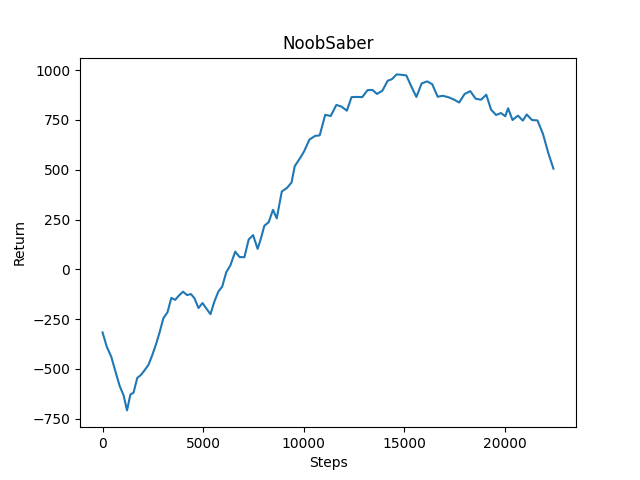
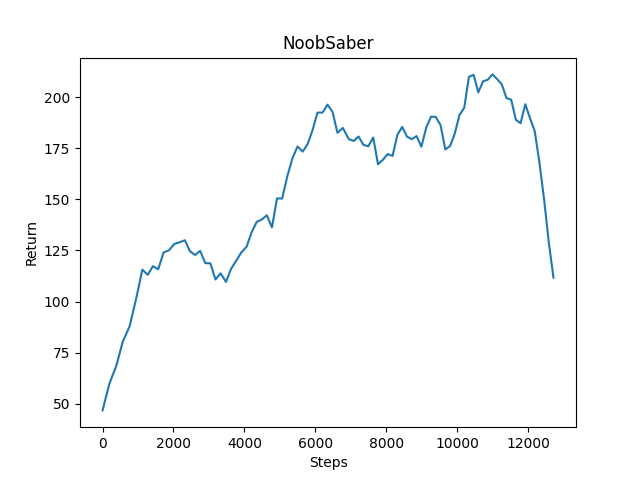
seperate switch and attack

diff --git a/cs175_rllib.py b/cs175_rllib.py
@@ -33,17 +33,17 @@ class NoobSaberAction(enum.Enum):
     NOP = 0
     ATTACK_LEFT = 1
     ATTACK_RIGHT = 2
-    #SWITCH = 3
+    SWITCH = 3
 
     def short_name(self):
         if self == NoobSaberAction.NOP:
             return 'NOP'
         elif self == NoobSaberAction.ATTACK_LEFT:
             return 'ATK_L'
-        #elif self == NoobSaberAction.SWITCH:
-        #    return 'SWITCH'
-        
-        return 'ATK_R'  # ATTACK_RIGHT
+        elif self == NoobSaberAction.SWITCH:
+           return 'SWITCH'
+        else:
+            return 'ATK_R'  # ATTACK_RIGHT
 
 
 class NoobSaber(gym.Env):
@@ -130,7 +130,7 @@ class NoobSaber(gym.Env):
         # if action_idx == 0: # change "do nothing" to "switch pickaxe"
         #     action_idx = 3
         action = self.action_list[action_idx]
-        # print("action: ", action.short_name())
+        print("action: ", action.short_name())
         self._make_action(action)
         self.episode_step += 1
         # print("====New Step====", self.episode_step)
@@ -228,8 +228,8 @@ class NoobSaber(gym.Env):
                     <!-- <RewardForTimeTaken initialReward="0" delta="0.1" density="PER_TICK" /> --> 
                     <RewardForCollectingItem>
                         <Item type="redstone_block" reward="1" />
-                        <Item reward="50" type="wool" colour="LIGHT_BLUE" />
-                        <Item reward="-60" type="wool" colour="YELLOW" />
+                        <Item reward="55" type="wool" colour="LIGHT_BLUE" />
+                        <Item reward="66" type="wool" colour="YELLOW" />
                     </RewardForCollectingItem>
                     <RewardForMissionEnd rewardForDeath="-100">
                         <Reward reward="1" description="Mission End"/>
@@ -284,6 +284,9 @@ class NoobSaber(gym.Env):
             world_state = self.agent_host.getWorldState()
             for error in world_state.errors:
                 print("\nError:", error.text)
+
+        self.agent_host.sendCommand('hotbar.1 1')
+        self.pickaxe = 0
 
         pyautogui.press('enter')
         pyautogui.rightClick()
@@ -364,15 +367,17 @@ class NoobSaber(gym.Env):
             self.agent_host.sendCommand('attack 1')
             time.sleep(delay)
             pyautogui.move(-225, 0)
-        # elif action == NoobSaberAction.SWITCH:
-        #     pyautogui.press('enter')
-        #     if self.pickaxe == 0:
-        #         self.agent_host.sendCommand('hotbar.2 1'); time.sleep(delay)
-        #         self.pickaxe += 1
-        #     else:
-        #         self.agent_host.sendCommand('hotbar.1 1'); time.sleep(delay)
-        #         self.pickaxe = 0
-        #     pyautogui.press('enter')
+        elif action == NoobSaberAction.SWITCH:
+            pyautogui.press('enter')
+            if self.pickaxe == 0:
+                self.agent_host.sendCommand('hotbar.2 1')
+                time.sleep(delay)
+                self.pickaxe += 1
+            else:
+                self.agent_host.sendCommand('hotbar.1 1')
+                time.sleep(delay)
+                self.pickaxe = 0
+            pyautogui.press('enter')
 
     def _resize_frame_pixels(self, frame):
         img = Image.frombytes(

diff --git a/cs175_model.py b/cs175_model.py
@@ -12,10 +12,10 @@ class NoobSaberTorchModel(TorchModelV2, nn.Module):
         TorchModelV2.__init__(self, obs_space, action_space, num_outputs, model_config, name)
         nn.Module.__init__(self)
 
-        self.conv1 = nn.Conv2d(3, 6, 3)
-        self.conv2 = nn.Conv2d(6, 16, 3)
-        self.conv3 = nn.Conv2d(16, 32, 3)
-        self.fc1 = nn.Linear(32 * 37 * 47, 120)
+        self.conv1 = nn.Conv2d(3, 8, 3)
+        self.conv2 = nn.Conv2d(8, 32, 3)
+        self.conv3 = nn.Conv2d(32, 64, 3)
+        self.fc1 = nn.Linear(64 * 37 * 47, 120)
         self.fc2 = nn.Linear(120, 84)
         self.fc3 = nn.Linear(84, num_outputs)
 

diff --git a/cs175_drawing.py b/cs175_drawing.py
@@ -51,7 +51,7 @@ def _generate_beats(x1: int, x2: int, y: int, z: int, prob: float):
         
         elif random.random() > prob:
             draw_counter = 3
-            padding_counter = 2
+            padding_counter = 4
             drawing_z = z - 1 if random.random() >= 0.5 else z + 1
             drawing_color = 'LIGHT_BLUE' if random.random() >= 0.6 else 'YELLOW'
             ret += _draw_block(x, y + 1, drawing_z, 'wool', colour=drawing_color)
